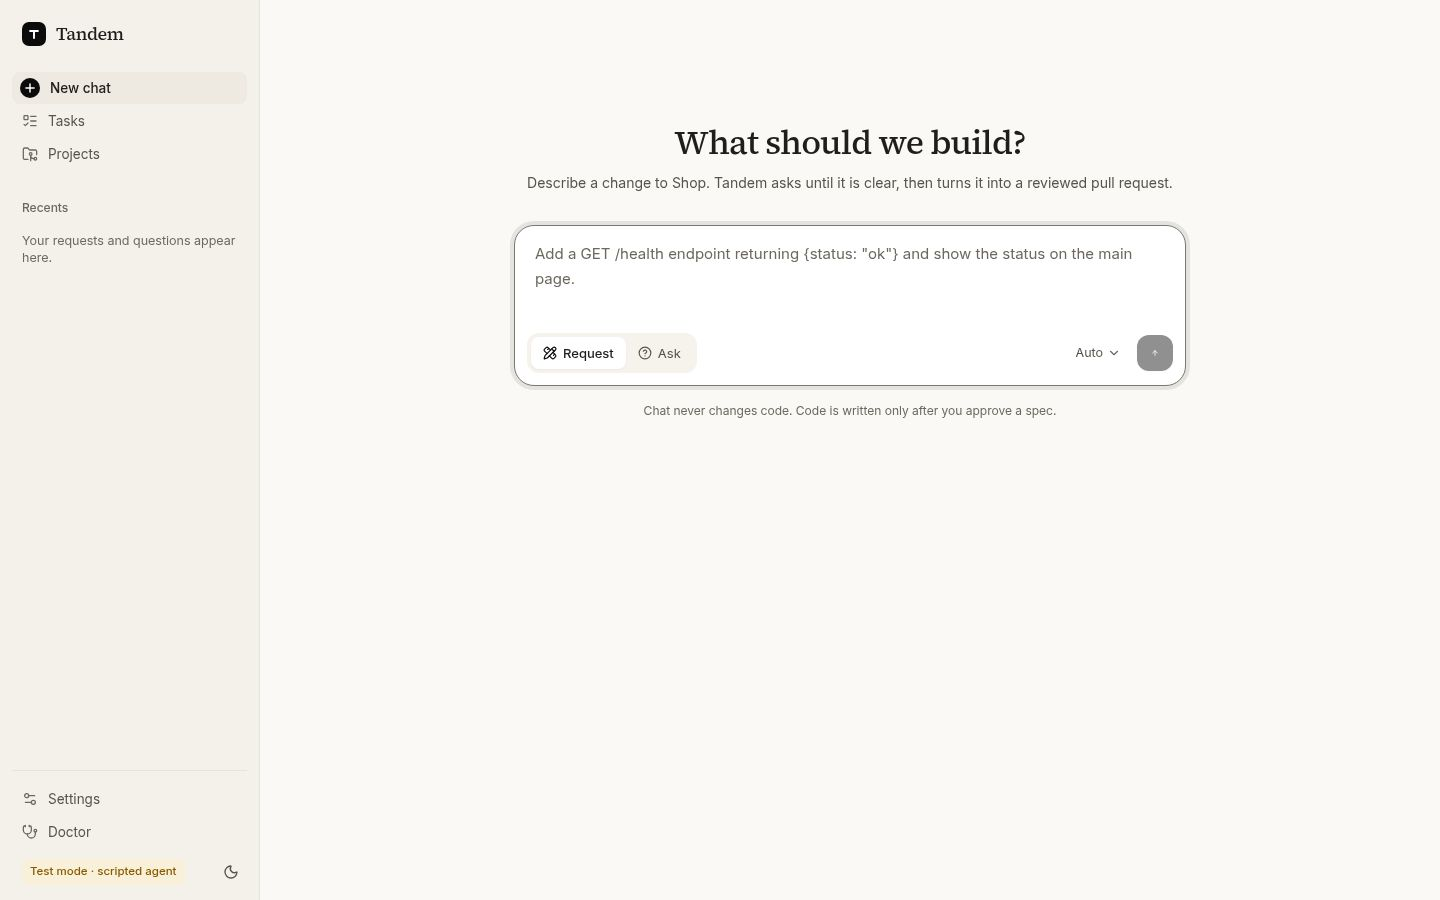
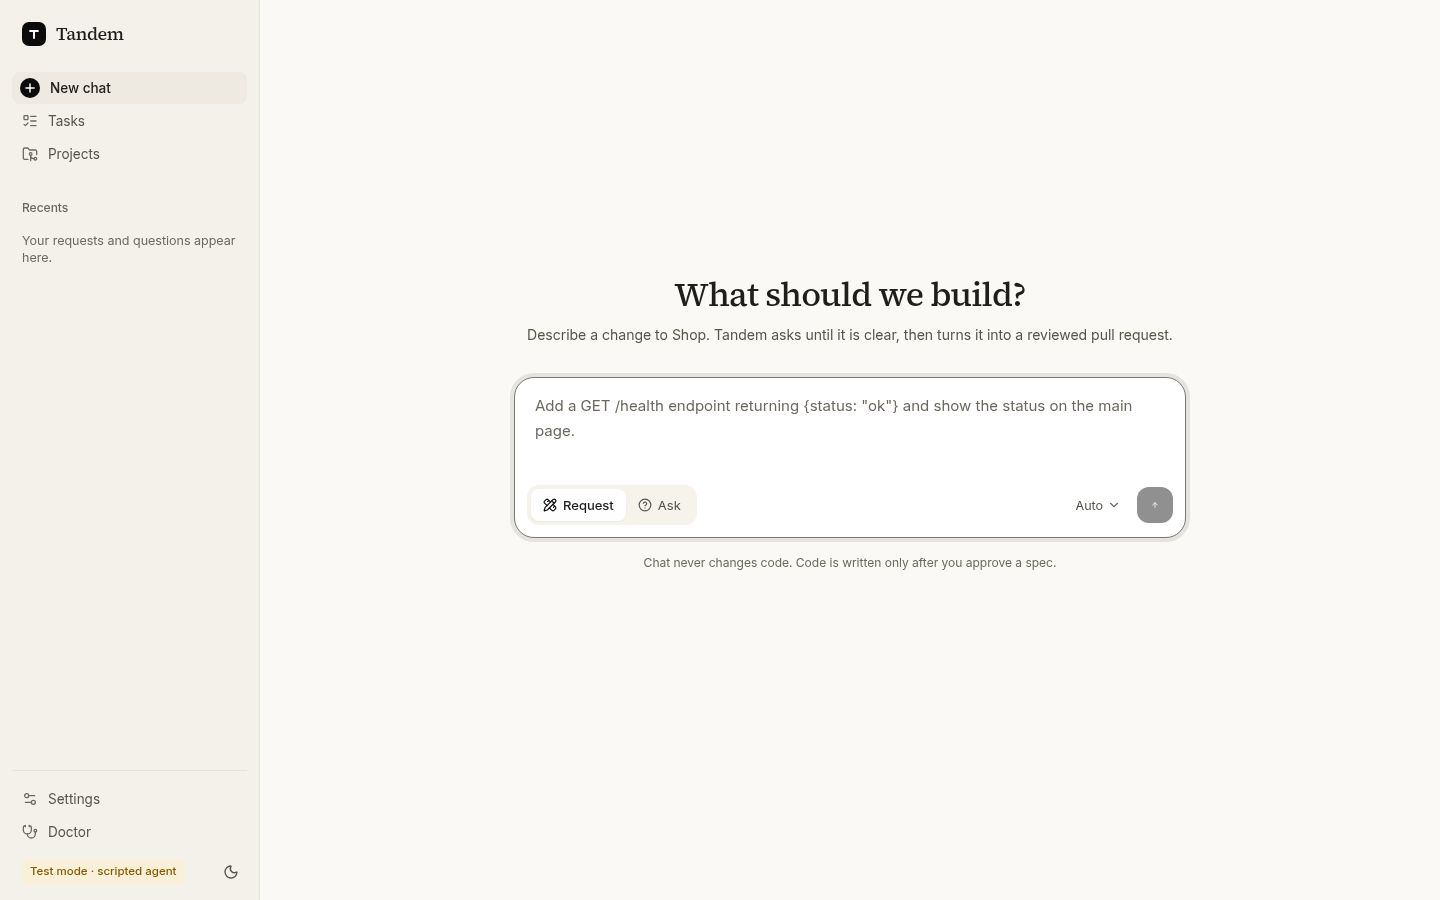
Centred chat start, project switcher at the top of the sidebar, real models in test mode
- The chat start screen is centred vertically.
- The project control sits under the logo with a 'Project' label: it
  switches the whole chat (new chats and recents), it isn't a filter.
- TANDEM_REAL_MODELS=1 lets a scripted-agent server list the real Copilot
  models in the picker (a free call, no prompts).

diff --git a/apps/web/src/App.tsx b/apps/web/src/App.tsx
@@ -48,8 +48,8 @@ const COMPACT_NAV = [{ to: '/chat', label: 'Chat' }, ...NAV, ...FOOTER_NAV];
 
 const navItem = (active: boolean) => cx('flex h-8 items-center gap-2.5 rounded-lg px-2.5 text-[13.5px] transition-colors', active ? 'bg-surface-3/80 font-medium text-fg' : 'text-muted hover:bg-surface-3/50 hover:text-fg');
 
-function Recents({ boot, projectId }: { boot: Bootstrap; projectId: string }) {
-  const { path, search, navigate } = useRouter();
+function Recents({ projectId }: { projectId: string }) {
+  const { path, search } = useRouter();
   const threads = useQuery({ queryKey: ['threads', projectId], queryFn: () => api<ChatThread[]>(`/api/projects/${projectId}/threads`), enabled: Boolean(projectId) });
   const current = path.startsWith('/chat') ? search.get('thread') : null;
   return (
@@ -57,11 +57,6 @@ function Recents({ boot, projectId }: { boot: Bootstrap; projectId: string }) {
       <div className="mb-1 flex h-7 items-center justify-between gap-2 px-2.5">
         <p className="text-[12px] font-medium text-faint">Recents</p>
       </div>
-      {boot.projects.length > 1 && (
-        <div className="mb-2 px-1">
-          <Select label="Project" hideLabel value={projectId} onChange={(p) => navigate(`/chat?project=${p}`)} options={boot.projects.map((p) => ({ value: p.id, label: p.name }))} className="[&_button]:h-8 [&_button]:text-[13px]" />
-        </div>
-      )}
       <ul className="-mr-2 flex min-h-0 flex-1 flex-col gap-px overflow-y-auto pr-2 [scrollbar-width:thin]">
         {threads.isLoading && <li className="px-2.5 py-1.5 text-[12.5px] text-faint">Loading…</li>}
         {threads.data?.length === 0 && <li className="px-2.5 py-1.5 text-[12.5px] leading-snug text-faint">Your requests and questions appear here.</li>}
@@ -135,6 +130,12 @@ function Shell() {
             </span>
             <span className="font-serif text-[18px] font-medium tracking-tight">Tandem</span>
           </Link>
+          {(boot.data?.projects.length ?? 0) > 1 && (
+            <div className="-mt-2 mb-4 px-1">
+              <p className="mb-1 px-1.5 text-[11.5px] font-medium text-faint">Project</p>
+              <Select label="Project" hideLabel value={chatProject} onChange={(p) => navigate(`/chat?project=${p}`)} options={boot.data!.projects.map((p) => ({ value: p.id, label: p.name }))} className="[&_button]:h-8 [&_button]:text-[13px]" />
+            </div>
+          )}
           <nav aria-label="Main" className="flex flex-col gap-px">
             <Link to={chatProject ? `/chat?project=${chatProject}` : '/chat'} aria-current={path.startsWith('/chat') && !search.get('thread') ? 'page' : undefined} className={cx(navItem(path.startsWith('/chat') && !search.get('thread')), 'text-fg')}>
               <span aria-hidden className="-ml-0.5 grid size-5 place-items-center rounded-full bg-accent text-accent-fg">
@@ -153,7 +154,7 @@ function Shell() {
               );
             })}
           </nav>
-          {boot.data?.projects.length ? <Recents boot={boot.data} projectId={chatProject} /> : <div className="flex-1" />}
+          {boot.data?.projects.length ? <Recents projectId={chatProject} /> : <div className="flex-1" />}
           <div className="mt-3 border-t border-line pt-3">
             <nav aria-label="Tandem" className="flex flex-col gap-px">
               {FOOTER_NAV.map((n) => {

diff --git a/packages/adapters/src/compose.ts b/packages/adapters/src/compose.ts
@@ -31,6 +31,11 @@ export interface TandemOptions {
   /** Settings overrides from the environment (RuntimeConfig.overrides). */
   overrides?: Record<string, unknown>;
   agent?: AgentRuntime;
+  /**
+   * With a test agent: list the real Copilot models in the model picker (a free call, no prompts).
+   * Picking one doesn't change what the test agent does.
+   */
+  realModels?: boolean;
   secrets?: SecretStore;
   clock?: Clock;
   events?: EventSink;
@@ -88,6 +93,11 @@ export async function createTandem(o: TandemOptions): Promise<Tandem> {
   };
 
   const agent = o.agent ?? new CopilotRuntime({ settings, ...(o.logger ? { logger: o.logger } : {}) });
+  const catalog = o.agent && o.realModels ? new CopilotRuntime({ settings, ...(o.logger ? { logger: o.logger } : {}) }) : undefined;
+  if (catalog) {
+    agent.models = () => catalog.models();
+    agent.defaultModel = (tier) => catalog.defaultModel(tier);
+  }
   const deps: WorkflowDeps = {
     store,
     clock,
@@ -132,6 +142,7 @@ export async function createTandem(o: TandemOptions): Promise<Tandem> {
     close: async () => {
       await runner.stop();
       if (agent instanceof CopilotRuntime) await agent.stop();
+      await catalog?.stop();
       store.close();
     },
   };

diff --git a/apps/web/src/screens/Chat.tsx b/apps/web/src/screens/Chat.tsx
@@ -251,7 +251,7 @@ function StartComposer({ projectName, busy, error, onStart }: { projectName: str
     }
   };
   return (
-    <div className="mx-auto flex max-w-2xl flex-col items-center pt-[9vh] text-center">
+    <div className="mx-auto flex min-h-[calc(100vh-11rem)] max-w-2xl flex-col items-center justify-center pb-[6vh] text-center md:min-h-[calc(100vh-5rem)]">
       <h1 className="font-serif text-[34px] leading-tight font-medium tracking-tight">{mode === 'request' ? 'What should we build?' : 'What would you like to know?'}</h1>
       <p className="mt-2 text-[14px] text-muted">{mode === 'request' ? `Describe a change to ${projectName}. Tandem asks until it is clear, then turns it into a reviewed pull request.` : `Ask anything about ${projectName}. Answers are read-only and cite files and lines.`}</p>
       <form

diff --git a/apps/server/src/start.ts b/apps/server/src/start.ts
@@ -62,7 +62,7 @@ export async function startServer(config: RuntimeConfig, o: { webDir?: string; q
   const tandem = await createTandem({
     home: config.home,
     overrides: config.overrides,
-    ...(config.agent === 'scripted' ? { agent: new ScriptedAgent(defaultScript) } : {}),
+    ...(config.agent === 'scripted' ? { agent: new ScriptedAgent(defaultScript), realModels: process.env.TANDEM_REAL_MODELS === '1' } : {}),
     ...testSeams(),
     events: bus,
     logger,
